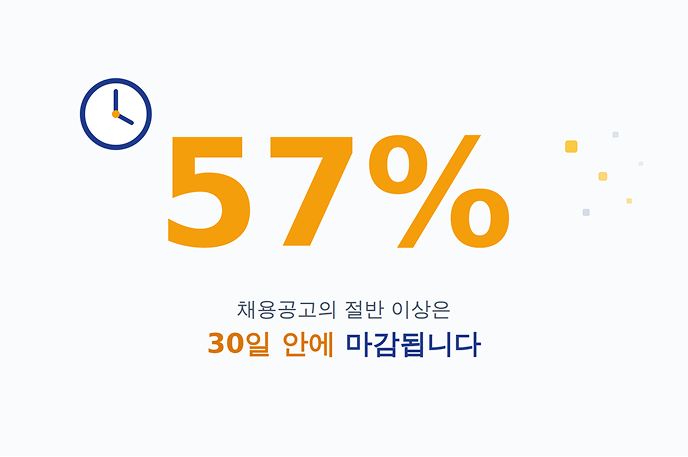
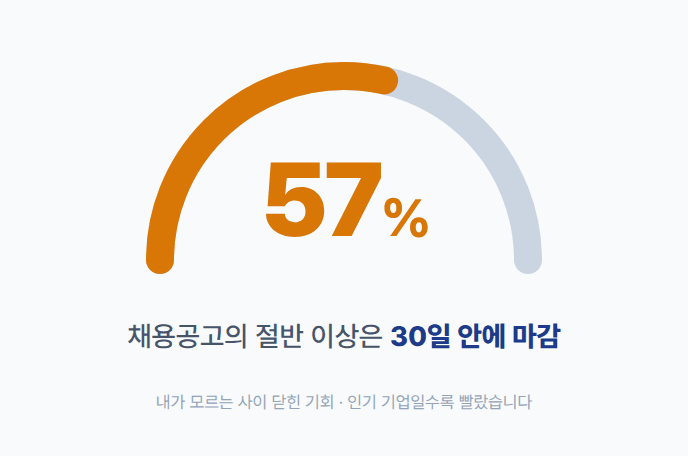
design: 마감 FOMO 이미지를 실측 기반 반원 게이지로 교체
- 시계 아이콘·장식 사각형 제거, 57%를 게이지로 표현 (브랜드 팔레트 + Pretendard만 사용)
- 상단 추적 건수 라벨과 하단 범례는 사용자 확정으로 제외
- img-fomo/img-hero alt 텍스트를 실제 그래픽 내용에 맞게 갱신
- figma-audit map.json: img-fomo 해시 갱신, 피그마 6:197 fill 교체 전까지 shaVerified=false

diff --git a/index.html b/index.html
@@ -194,7 +194,7 @@ fbq('track', 'PageView');
       <h1 class="t-display-l hero-title">나도 <span class="hl">더 좋은 곳</span>으로<br>이직할 수 있을까?</h1>
       <p class="t-body-l lead">차가운 이직시장에서
 매일 1분 투자로 연봉 앞자리를 바꿔보세요</p>
-      <img class="illust" src="assets/img-hero.png" alt="이직을 준비하는 사람 일러스트" width="344" height="224">
+      <img class="illust" src="assets/img-hero.png" alt="이직으로 연봉이 4,000만원에서 5,000만원으로 오르는 그래프" width="344" height="224">
     </section>
 
     <!-- 1. 일단 지원 -->
@@ -216,7 +216,7 @@ fbq('track', 'PageView');
       </div>
       <p class="t-body-l lead">관심 기업의 원하던 공고가
 내가 모르는 사이 닫히는 경우, 생각보다 많아요.</p>
-      <img class="illust" src="assets/img-fomo.png" alt="마감된 공고 일러스트" width="344" height="228">
+      <img class="illust" src="assets/img-fomo.png" alt="추적한 채용공고의 57%가 30일 안에 마감됐음을 보여주는 게이지 그래프" width="344" height="228">
     </section>
 
     <!-- 3. 초반 지원 우위 -->
